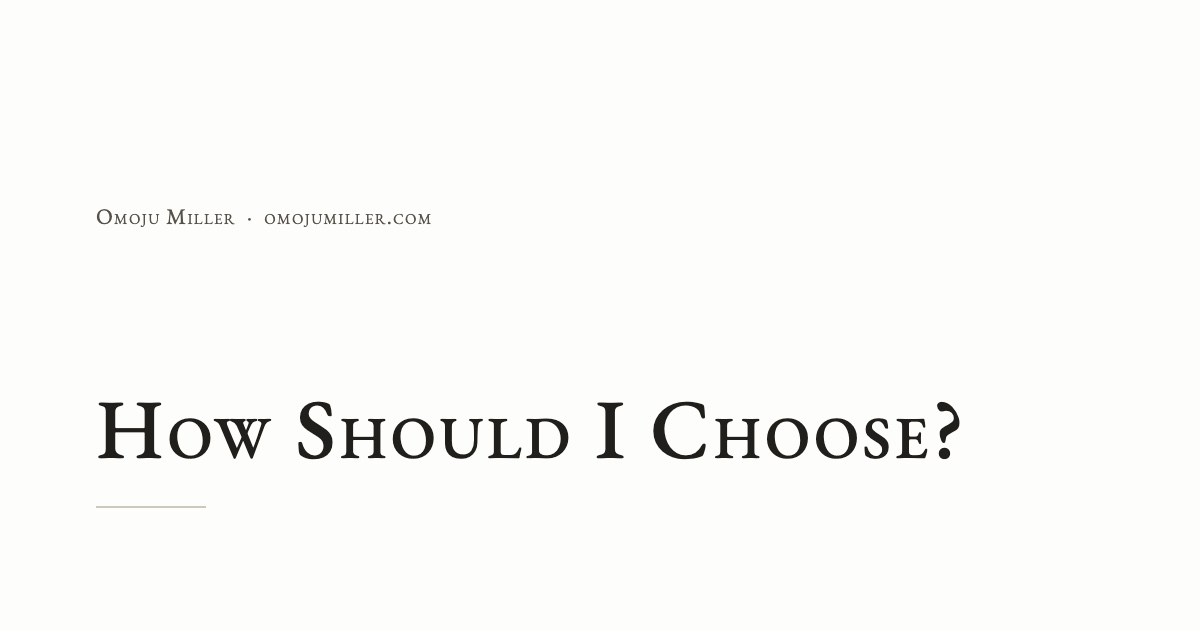
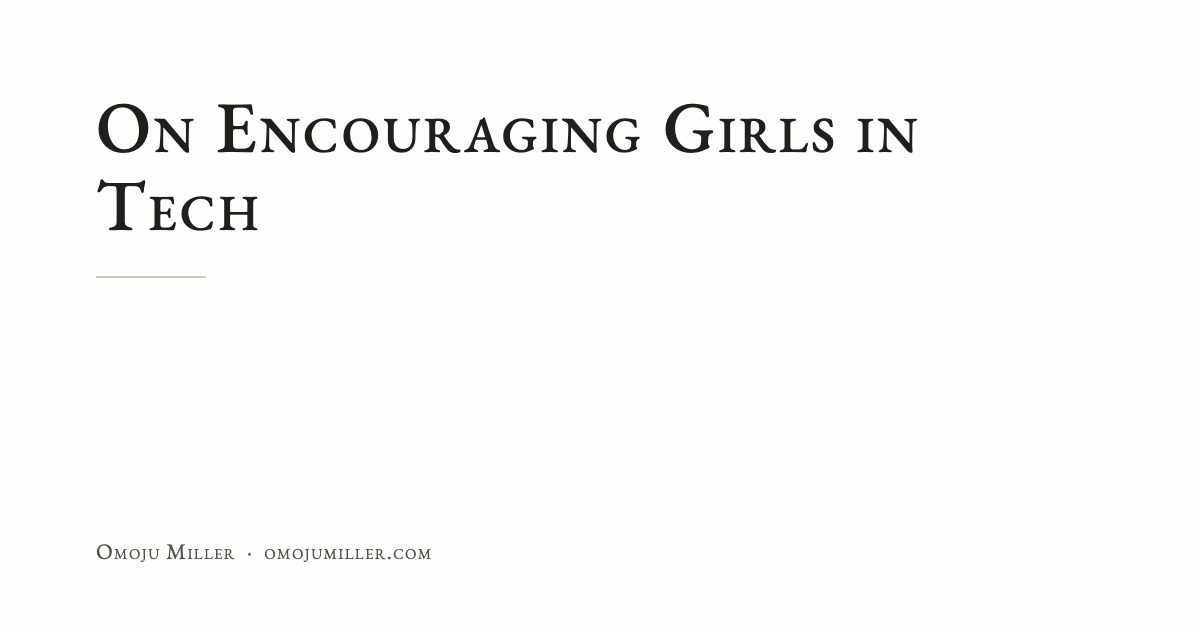
Fix the first share card in every batch
sips reads --cropOffset 0 as "no offset" and centres the crop instead,
exit code 0. The first card of every 16-card batch therefore came back as
a slice from the middle of the stacked page, half of one card and half of
another. Three live cards have been wrong since the generator shipped:
On Encouraging Girls in Tech, The Real Evil Is Supremacy, and The Rise of
the Merchant Princess.

The size check could not catch it, since a centred slice is still exactly
1200x630. Reproduced in isolation: asking for slice A at offset 0 returned
slice C.

A spacer above the first card now keeps every offset strictly inside the
page, alongside the existing slack below the last. Regenerating changed
exactly those three cards; the other 44 came out byte-identical.

diff --git a/tools/make-cards.py b/tools/make-cards.py
@@ -33,7 +33,7 @@ CHROME = "/Applications/Google Chrome.app/Contents/MacOS/Google Chrome"
 OUT_DIR = "content/images/cards"
 W, H = 1200, 630
 BATCH = 16          # keeps each captured page well inside Chrome's height limit
-PAD = 40            # see render(): keeps the final slice off the bottom edge
+PAD = 40            # see render(): keeps every slice off both edges of the page
 JPEG_QUALITY = 88
 
 CARD_CSS = """
@@ -114,21 +114,27 @@ def render(batch, workdir, index):
             "<!doctype html><meta charset='utf-8'>"
             "<link href='https://fonts.googleapis.com/css2?"
             "family=EB+Garamond:wght@400;500&display=swap' rel='stylesheet'>"
-            f"<style>{CARD_CSS}</style>" + "".join(cards)
+            f"<style>{CARD_CSS}</style>"
+            f'<div style="height:{PAD}px"></div>' + "".join(cards)
         )
     shot = os.path.join(workdir, f"page{index}.png")
-    # PAD matters: sips silently returns the *whole* image, exit code 0, when a
-    # crop region ends flush with the bottom edge. Padding the page keeps the
-    # last slice off that boundary.
+    # PAD matters, at both ends. sips fails silently at the edges of an image,
+    # exit code 0 both times:
+    #   - a crop ending flush with the bottom edge returns the *whole* image;
+    #   - --cropOffset 0 is read as "no offset" and the crop is centred instead,
+    #     so the first card of every batch came back as a slice from mid-page.
+    # A spacer above the first card and slack below the last keep every offset
+    # strictly inside the page. The size check below cannot catch the second
+    # case: a centred slice is still exactly W x H.
     subprocess.run(
         [CHROME, "--headless", "--disable-gpu", "--hide-scrollbars",
-         f"--window-size={W},{H * len(batch) + PAD}", f"--screenshot={shot}",
+         f"--window-size={W},{PAD + H * len(batch) + PAD}", f"--screenshot={shot}",
          "--virtual-time-budget=15000", f"file://{os.path.abspath(page)}"],
         check=True, capture_output=True,
     )
     for i, (slug, _, _) in enumerate(batch):
         crop = os.path.join(workdir, f"{slug}.png")
-        subprocess.run(["sips", "-c", str(H), str(W), "--cropOffset", str(i * H), "0",
+        subprocess.run(["sips", "-c", str(H), str(W), "--cropOffset", str(PAD + i * H), "0",
                         shot, "--out", crop], check=True, capture_output=True)
         out = os.path.join(OUT_DIR, f"{slug}.jpg")
         subprocess.run(["sips", "-s", "format", "jpeg", "-s", "formatOptions",
